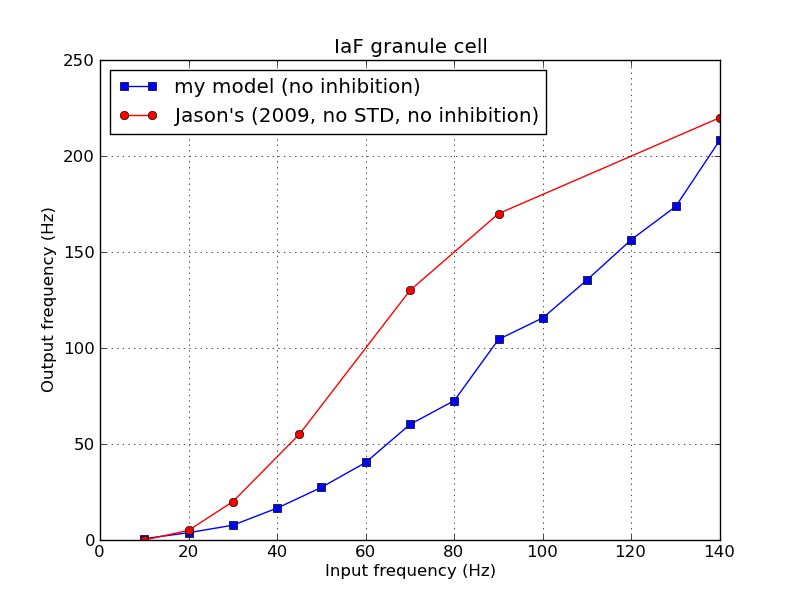
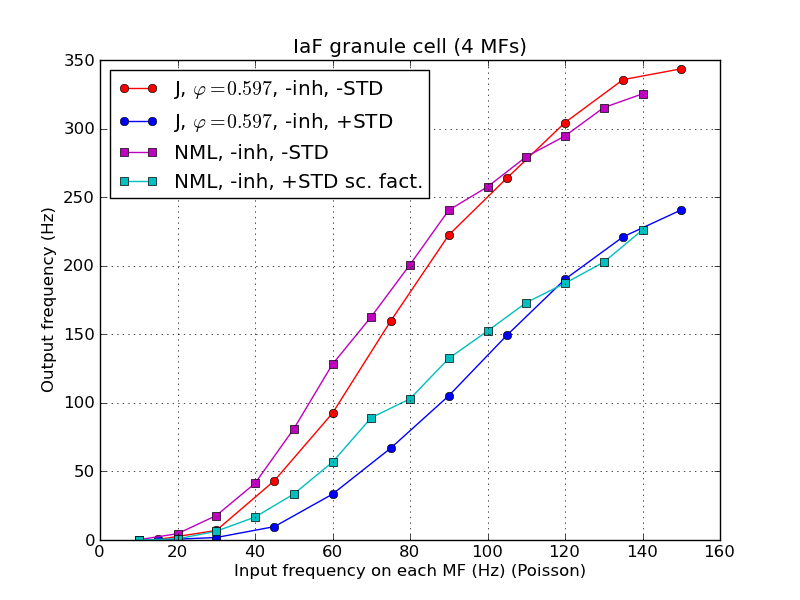
Recalculated the IO curve with and without the new plasticity scaling factor.
The comparison with Jason's model is now carried out correctly against simulations performed in similar conditions (no inhibition).

diff --git a/plot_comparison_with_jason.py b/plot_comparison_with_jason.py
@@ -2,18 +2,40 @@ import numpy as np
 from matplotlib import pyplot as plt
 
 m_x = np.arange(10,150,10)
-m_y = np.array([0.7, 3.8, 7.7, 16.6, 27.4, 40.4, 60.2, 72.6, 104.5, 115.7, 135.5, 156.5, 173.7, 208.4])
-j_x = np.array([10,20,30,45, 70, 90, 140])
-j_y = np.array([0, 5, 20, 55, 130, 170, 220])
+m_y_noplast = np.array([0.2, 4.6, 17.8, 41.3, 81, 128.2, 162.8, 200.8, 240.5, 257.5, 279.5, 294.6, 315.3, 325.3])
+m_y_plast = np.array([0.1, 0.8, 6.4, 16.7, 33.5, 56.8, 89.2, 102.9, 132.4, 152.4, 173.1, 187.2, 202.6, 226.1])
+# j_x = np.array([10,20,30,45, 70, 90, 140])
+# j_y_noplast = np.array([0, 5, 20, 55, 130, 170, 220]) # this is from exp data, but it doesn't really make sense to compare it to the model given how the 9 grcs were chosen in the gain paper (i.e.: this is not the average cell)
+# j_y_plast = np.array([0, 5, 18, 40, 100, 110, 145])
+j_x = np.arange(15, 165, 15)
+j_y_plast_phi06 = np.array([0.00, 0.12, 0.53, 4.06, 13.04, 31.52, 56.33, 93.56, 134.29, 165.93])
+j_y_plast_phi10 = np.array([0.00, 1.65, 8.67, 34.44, 72.50, 117.76, 168.61, 215.88, 250.14, 271.57])
+j_y_plast_phi12 = np.array([0.06, 3.53, 18.98, 59.19, 112.81, 162.91, 213.61, 254.25, 282.64, 299.29])
+j_y_plast_phi14 = np.array([0.22, 7.10, 33.00, 88.94, 153.15, 200.91, 247.17, 282.75, 306.14, 320.79])
+
+j_x_noinh = np.arange(15, 165, 15)
+j_y_plast_phi06_noinh = np.array([0.020408163265306124, 1.8163265306122447, 9.744186046511627, 33.4375, 66.92307692307693, 105.14285714285715, 149.27777777777777, 190.125, 221.07142857142858, 240.7142857142857])
+j_y_noplast_phi06_noinh = np.array([0.40816326530612246, 6.938775510204081, 43.25581395348837, 92.5, 159.6153846153846, 222.38095238095238, 263.8888888888889, 304.375, 335.71428571428567, 343.57142857142856])
+
+
 
 fig = plt.figure()
 ax = fig.add_subplot(111)
 ax.grid()
-ax.plot(m_x, m_y, marker='s', color='b', label='my model (no inhibition)')
-ax.plot(j_x, j_y, marker='o', color='r', label="Jason's (2009, no STD, no inhibition)")
+ax.plot(j_x_noinh, j_y_noplast_phi06_noinh, marker='o', color='r', label=r"J, $\varphi=0.597$, -inh, -STD")
+ax.plot(j_x_noinh, j_y_plast_phi06_noinh, marker='o', color='b', label=r"J, $\varphi=0.597$, -inh, +STD")
+ax.plot(m_x, m_y_noplast, marker='s', color='m', label='NML, -inh, -STD')
+ax.plot(m_x, m_y_plast, marker='s', color='c', label='NML, -inh, +STD sc. fact.')
 
-ax.set_title('IaF granule cell')
-ax.set_xlabel('Input frequency (Hz)')
+
+#ax.plot(j_x, j_y_plast_phi10, marker='o', color='b', label=r"J, $\varphi=1.0$")
+#ax.plot(j_x, j_y_plast_phi12, marker='o', color='c', label=r"J, $\varphi=1.2$")
+#ax.plot(j_x, j_y_plast_phi14, marker='o', color='g', label=r"J, $\varphi=1.4$")
+#ax.plot(j_x, j_y_plast, marker='o', color='b', label="J, with STD")
+
+
+ax.set_title('IaF granule cell (4 MFs)')
+ax.set_xlabel('Input frequency on each MF (Hz) (Poisson)')
 ax.set_ylabel('Output frequency (Hz)')
 ax.legend(loc='upper left')
 plt.show()
